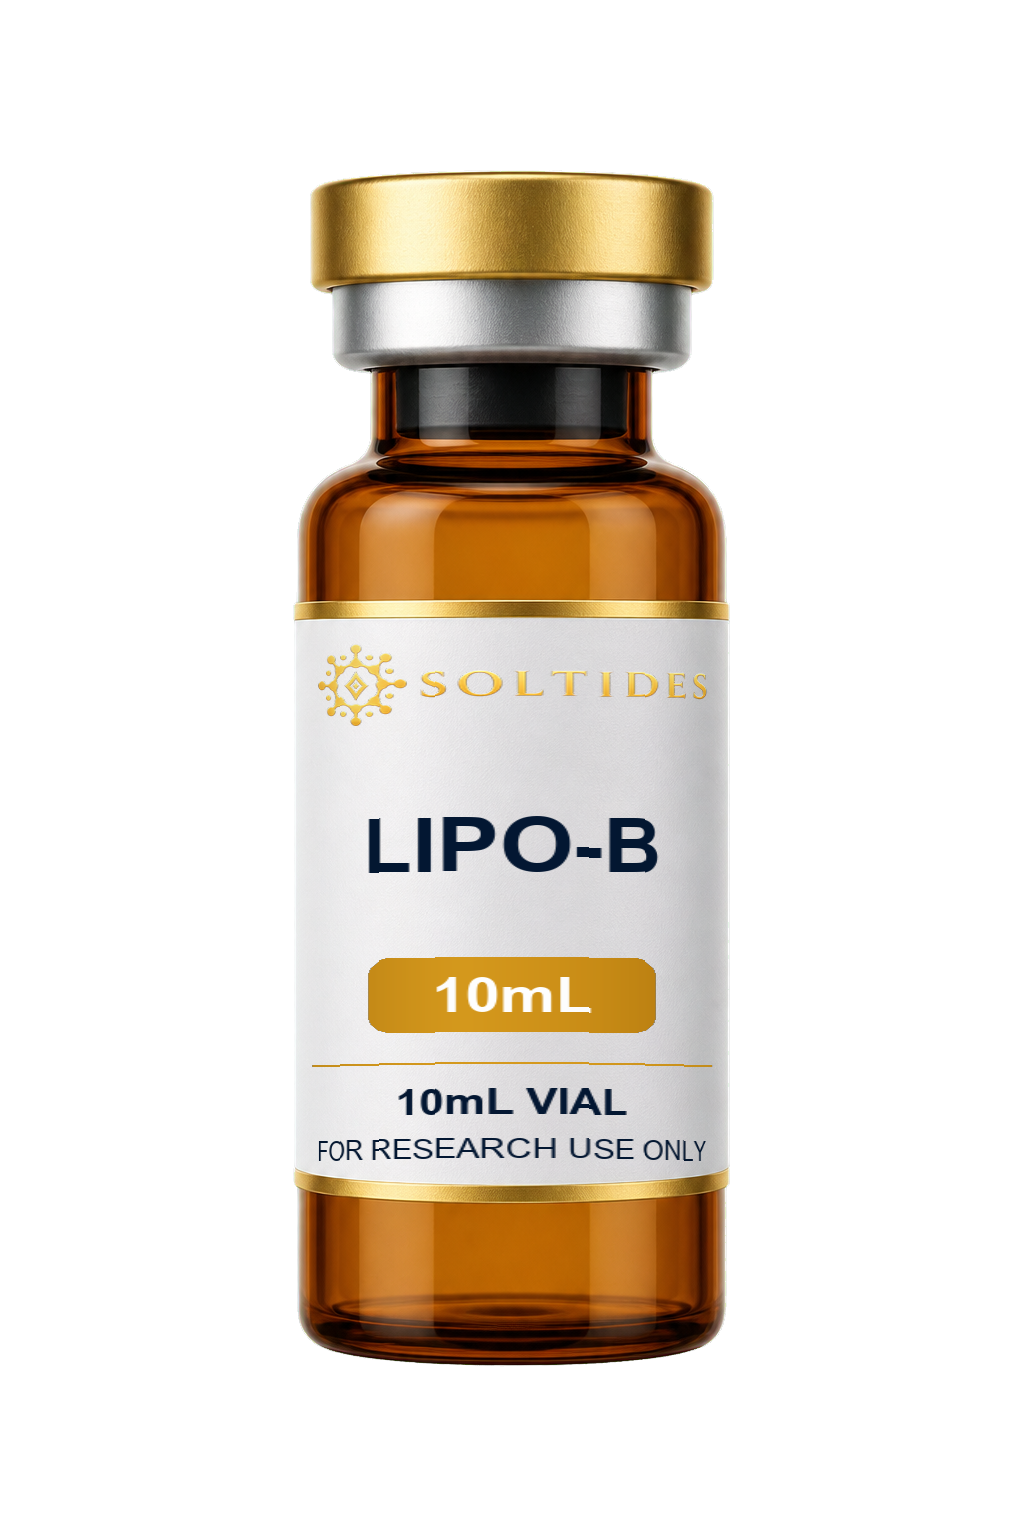
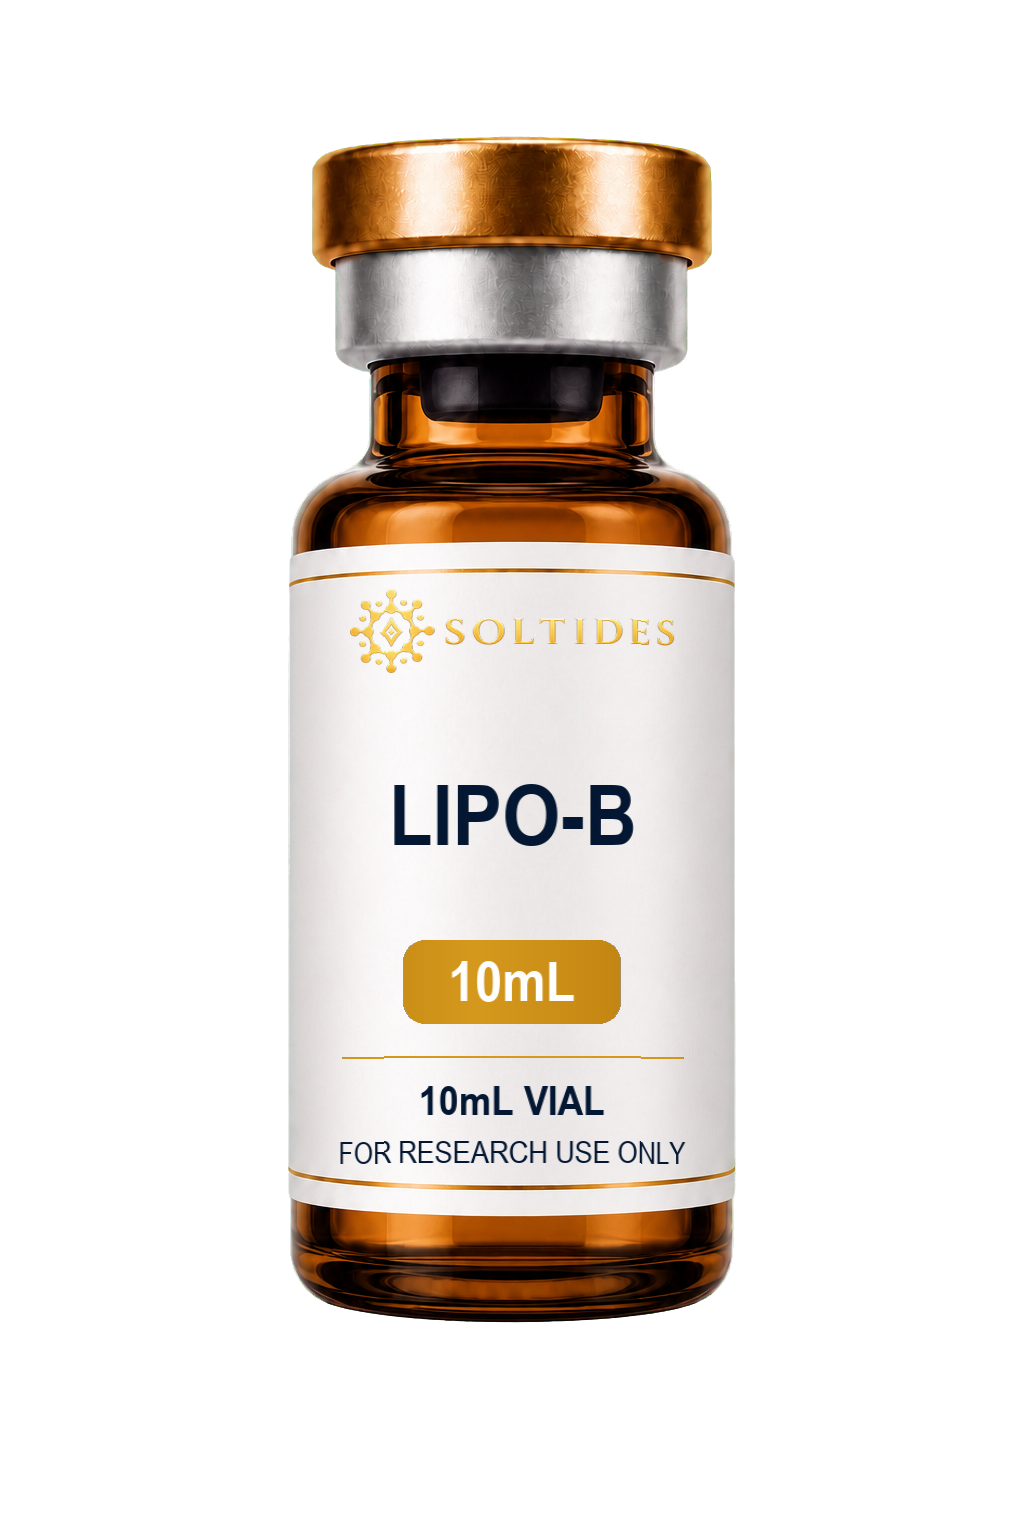
Refine premium vial proportions and label curvature

Changed region(s): [[0.2812, 0.0625, 0.7188, 0.9062]]

diff --git a/tools/generate_labels.py b/tools/generate_labels.py
@@ -37,7 +37,7 @@ PRODUCTS = [
         "dose": "60mg",
         "vial": "3mL VIAL",
         "template": "clear-3ml-vial-base.png",
-        "region": (300, 627, 724, 1222),
+        "region": (320, 536, 704, 1200),
     },
     {
         "image": "slp-2.png",
@@ -46,7 +46,7 @@ PRODUCTS = [
         "dose": "15mg",
         "vial": "3mL VIAL",
         "template": "clear-3ml-vial-base.png",
-        "region": (300, 627, 724, 1222),
+        "region": (320, 536, 704, 1200),
     },
     {
         "image": "tesamorelin.png",
@@ -55,7 +55,7 @@ PRODUCTS = [
         "dose": "10mg",
         "vial": "3mL VIAL",
         "template": "clear-3ml-vial-base.png",
-        "region": (300, 627, 724, 1222),
+        "region": (320, 536, 704, 1200),
     },
     {
         "image": "klow-blend.png",
@@ -64,7 +64,7 @@ PRODUCTS = [
         "dose": "50mg / 10mg / 10mg / 10mg",
         "vial": "3mL VIAL",
         "template": "clear-3ml-vial-base.png",
-        "region": (300, 627, 724, 1222),
+        "region": (320, 536, 704, 1200),
     },
     {
         "image": "bpc-157-tb-500.png",
@@ -73,7 +73,7 @@ PRODUCTS = [
         "dose": "10mg / 10mg",
         "vial": "3mL VIAL",
         "template": "clear-3ml-vial-base.png",
-        "region": (300, 627, 724, 1222),
+        "region": (320, 536, 704, 1200),
     },
     {
         "image": "mt-1.png",
@@ -82,7 +82,7 @@ PRODUCTS = [
         "dose": "10mg",
         "vial": "3mL VIAL",
         "template": "clear-3ml-vial-base.png",
-        "region": (300, 627, 724, 1222),
+        "region": (320, 536, 704, 1200),
     },
     {
         "image": "mots-c.png",
@@ -91,7 +91,7 @@ PRODUCTS = [
         "dose": "10mg",
         "vial": "3mL VIAL",
         "template": "clear-3ml-vial-base.png",
-        "region": (300, 627, 724, 1222),
+        "region": (320, 536, 704, 1200),
     },
     {
         "image": "cp10.png",
@@ -100,7 +100,7 @@ PRODUCTS = [
         "dose": "5mg / 5mg",
         "vial": "3mL VIAL",
         "template": "clear-3ml-vial-base.png",
-        "region": (300, 627, 724, 1222),
+        "region": (320, 536, 704, 1200),
     },
     {
         "image": "nad-plus.png",
@@ -109,7 +109,7 @@ PRODUCTS = [
         "dose": "500mg",
         "vial": "10mL VIAL",
         "template": "amber-10ml-vial-base.png",
-        "region": (294, 610, 730, 1189),
+        "region": (290, 554, 735, 1198),
     },
     {
         "image": "lc216.png",
@@ -118,7 +118,7 @@ PRODUCTS = [
         "dose": "10mL",
         "vial": "10mL VIAL",
         "template": "amber-10ml-vial-base.png",
-        "region": (294, 610, 730, 1189),
+        "region": (290, 554, 735, 1198),
     },
 ]
 
@@ -279,20 +279,20 @@ def front_art(product: dict[str, object], width: int, height: int, logo: Image.I
 
 
 def cylindrical_wrap(art: Image.Image) -> Image.Image:
-    """Compress artwork at the edges and add a subtle curved baseline."""
+    """Apply subtle real-world label curvature without stretching the typography."""
     src = np.asarray(art.convert("RGBA"), dtype=np.float32)
     height, width, _ = src.shape
     out = np.zeros_like(src)
     for x in range(width):
         xn = (2.0 * x / max(1, width - 1)) - 1.0
-        source_normal = np.arcsin(np.clip(xn, -1.0, 1.0)) / (np.pi / 2.0)
+        source_normal = xn + 0.08 * (xn**3 - xn)
         sx = (source_normal + 1.0) * 0.5 * (width - 1)
         x0 = int(np.floor(sx))
         x1 = min(width - 1, x0 + 1)
         blend = sx - x0
         column = src[:, x0, :] * (1.0 - blend) + src[:, x1, :] * blend
-        shift = int(round(4.0 * xn * xn))
-        shade = 0.84 + 0.16 * np.sqrt(max(0.0, 1.0 - xn * xn))
+        shift = int(round(1.5 * xn * xn))
+        shade = 0.94 + 0.06 * np.sqrt(max(0.0, 1.0 - xn * xn))
         column[:, :3] *= shade
         if shift:
             out[shift:, x, :] = column[: height - shift, :]
